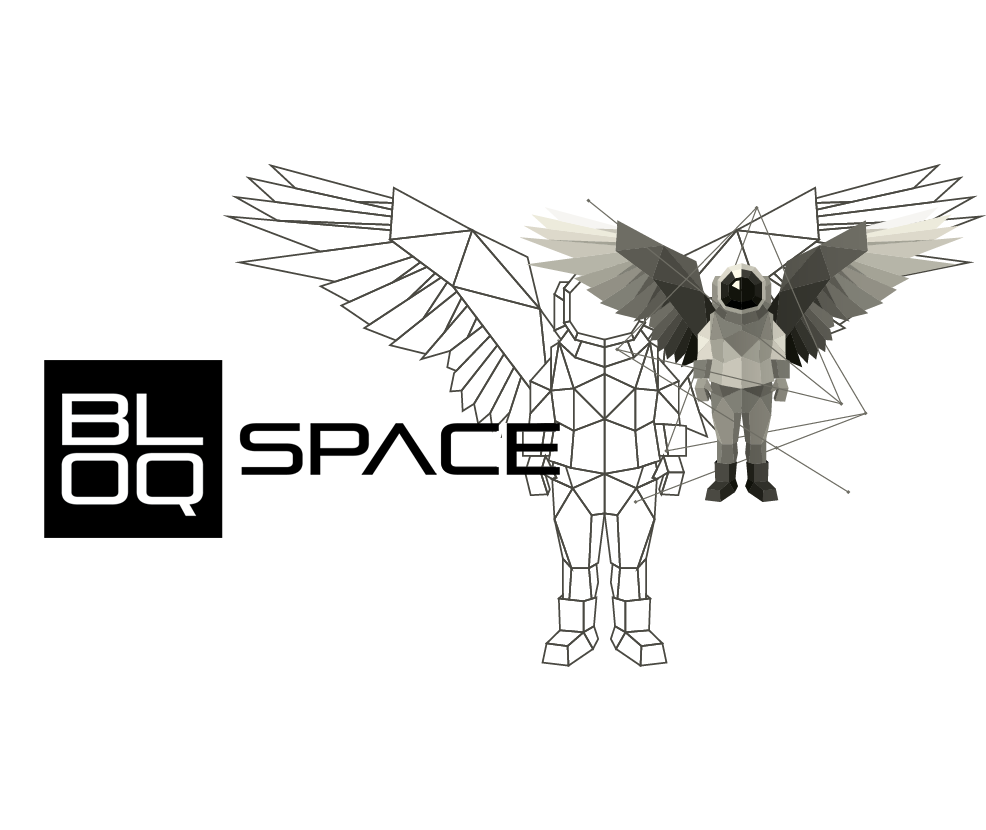
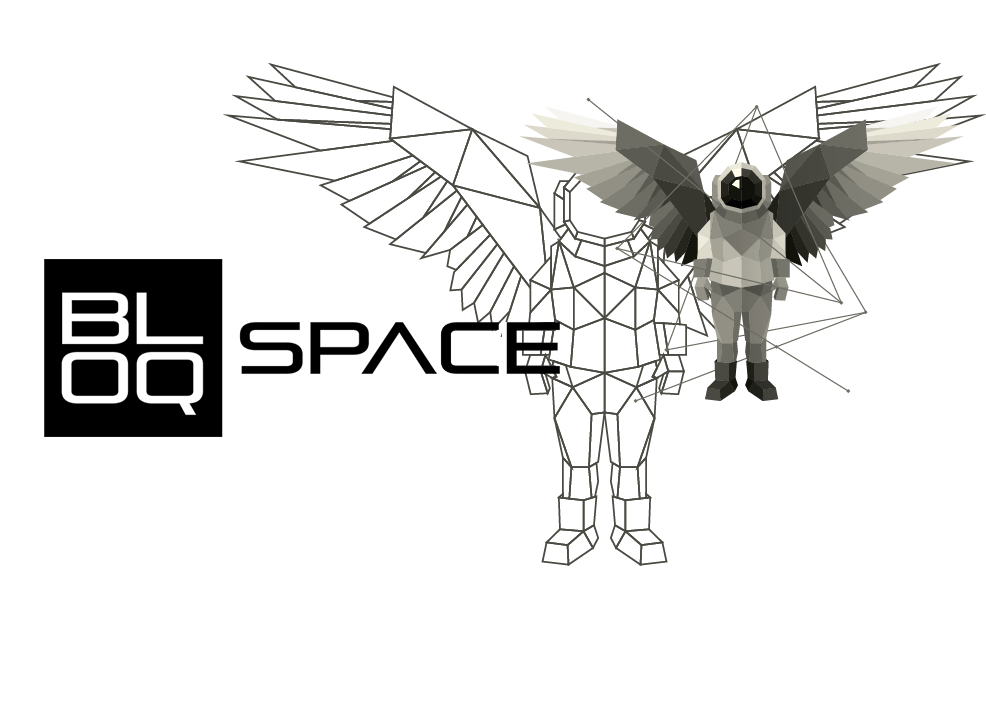
adjusting spacing

Changed region(s): [[0.2434, 0.0934, 1.0, 0.8091], [0.0304, 0.3423, 0.2434, 0.6535], [0.8215, 0.5601, 0.8519, 0.5912]]

diff --git a/assets/css/styles.css b/assets/css/styles.css
@@ -18,13 +18,13 @@ body {
   top: 0;
   left: 0;
   min-width: 100%; 
-  max-height: 100vh;
 }
 
 
 .intro-bg img {
   text-align:center;
   margin:0 auto;
+  padding:0;
 }
 
 .intro-headline {
